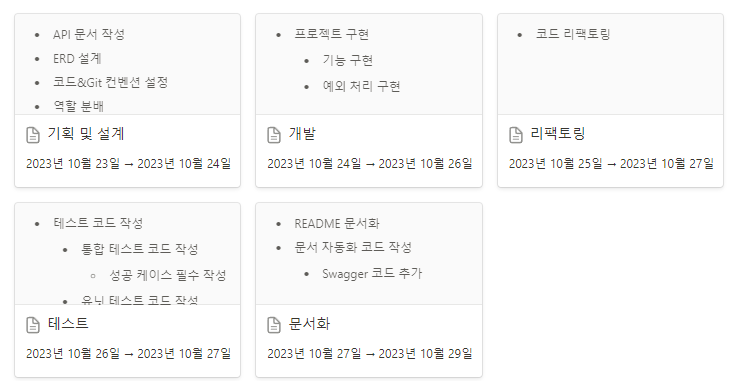
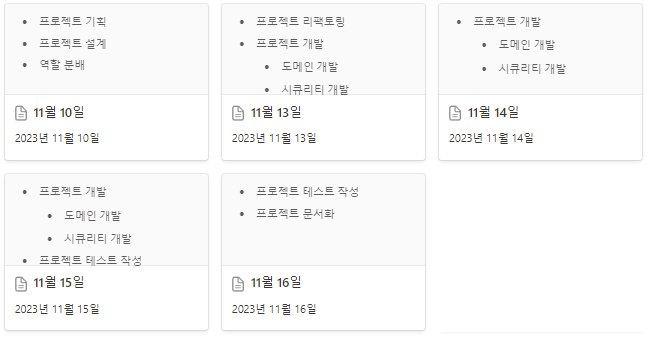
[docs] erd, project_schedule 이미지 수정
Motivation:
 - #134

diff --git a/readme.md b/readme.md
@@ -12,6 +12,10 @@
   LOCAL_MYSQL_PASSWORD=<MYSQL의 ROOT password>
   LOCAL_MYSQL_VOLUME_PATH=./bin/mysql # MYSQL 데이터를 저장할 본인 컴퓨터 경로
   LOCAL_MYSQL_PORT=3306 # 컴퓨터에서 사용할 PORT
+  
+  LOCAL_REDIS_VOLUME_PATH=./bin/redis # REDIS 데이터를 저장할 본인 컴퓨터 경로
+  LOCAL_REDIS_PORT=6379 # 컴퓨터에서 사용할 REDIS PORT
+  KAKAO_API_KEY=<Kakao API Key> # 개인의 Kakao Open API key
   ```
 - docker compose를 사용하여 mysql 데이터베이스 환경을 만들 수 있습니다.
     - 인텔리제이의 docker plugin 기능을 사용하시거나, 다음 명령어를 입력해서 데이터베이스 환경을 구성하세요.
@@ -21,17 +25,17 @@
 
 ## 🧑🤝🧑 조원 & 역할
 
-| 이름  | 역할                    |
-|-----|-----------------------|
-| 한상우 | 조장, 여행 도메인 개발, 문서 관리  |
-| 구자현 | 설계, git 관리, QA, 공통 처리 |
-| 박경탁 | 여행 도메인 개발             |
-| 심재철 | 여정 도메인 개발             |
-| 이민균 | 여정 도메인 개발             |
+| 이름  | 역할                          |
+|-----|-----------------------------|
+| 한상우 | 조장, 여행 도메인 개발, 문서 관리        |
+| 구자현 | 설계, git 관리, Security, 공통 처리 |
+| 박경탁 | 여행 도메인 개발                   |
+| 심재철 | 여정 도메인 개발                   |
+| 이민균 | 여정 도메인 개발                   |
 
 ## 🚀 프로젝트 일정
 
-- 프로젝트 기간: 10월 23일(월) ~ 10월 27일(금)
+- 프로젝트 기간: 11월 10일(금) ~ 11월 16일(목)
 
 ![project_schedule.png](./docs/images/project_schedule.png)
 
@@ -85,8 +89,16 @@ http://localhost:8080/swagger-ui/index.html
 ## 📦 패키지 구조
 
 ```
-├── README.md
+Project
+├── HELP.md
 ├── build.gradle
+├── gradle
+│   └── wrapper
+│       ├── gradle-wrapper.jar
+│       └── gradle-wrapper.properties
+├── gradlew
+├── gradlew.bat
+├── readme.md
 ├── settings.gradle
 └── src
     ├── main
@@ -95,9 +107,18 @@ http://localhost:8080/swagger-ui/index.html
     │   │       └── kdt_y_be_toy_project2
     │   │           ├── domain
     │   │           │   ├── itinerary
+    │   │           │   │   ├── api
     │   │           │   │   ├── controller
     │   │           │   │   ├── domain
     │   │           │   │   ├── dto
+    │   │           │   │   ├── exception
+    │   │           │   │   ├── repository
+    │   │           │   │   └── service
+    │   │           │   ├── member
+    │   │           │   │   ├── controller
+    │   │           │   │   ├── domain
+    │   │           │   │   ├── dto
+    │   │           │   │   │   └── request
     │   │           │   │   ├── exception
     │   │           │   │   ├── repository
     │   │           │   │   └── service
@@ -113,23 +134,37 @@ http://localhost:8080/swagger-ui/index.html
     │   │           └── global
     │   │               ├── config
     │   │               ├── error
+    │   │               ├── jwt
+    │   │               ├── resolver
+    │   │               ├── security
     │   │               └── util
     │   └── resources
-    │       └── application*.properties
+    │       ├── application.properties
+    │       ├── static
+    │       └── templates
     └── test
         └── java
             └── com
                 └── kdt_y_be_toy_project2
-                    ├── integeration
-                    ├── domain
-                    │   ├── trip
-                    │   │   └── controller
-                    │   ├── itinerary
-                    │   │   └── controller
-                    │   └── model
-                    └── global
-                        └── factory
+                    ├── domain
+                    │   └── trip
+                    │   │   ├── controller
+                    │   │   ├── repository
+                    │   │   └── service
+                    │   └── itinerary
+                    │   │   ├── controller
+                    │   │   ├── repository
+                    │   │   └── service
+                    │   └── model
+                    ├── global
+                    │   ├── factory
+                    │   ├── helper
+                    │   └── jwt
+                    │       └── service
+                    │  
+                    └── integration
 ```
+
 
 ## ⌨ 코드 컨벤션
 
